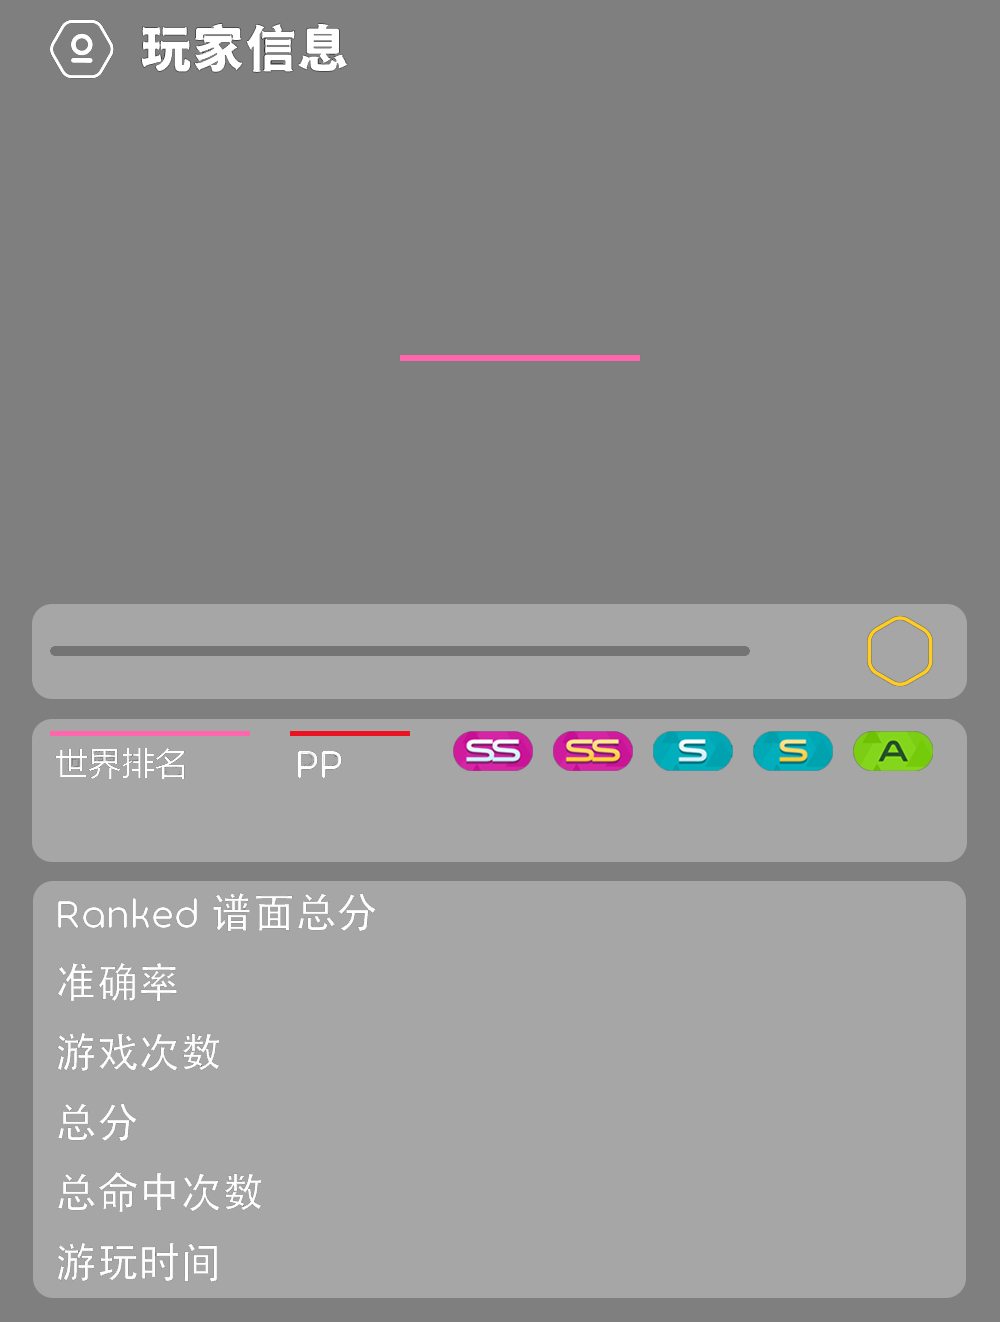
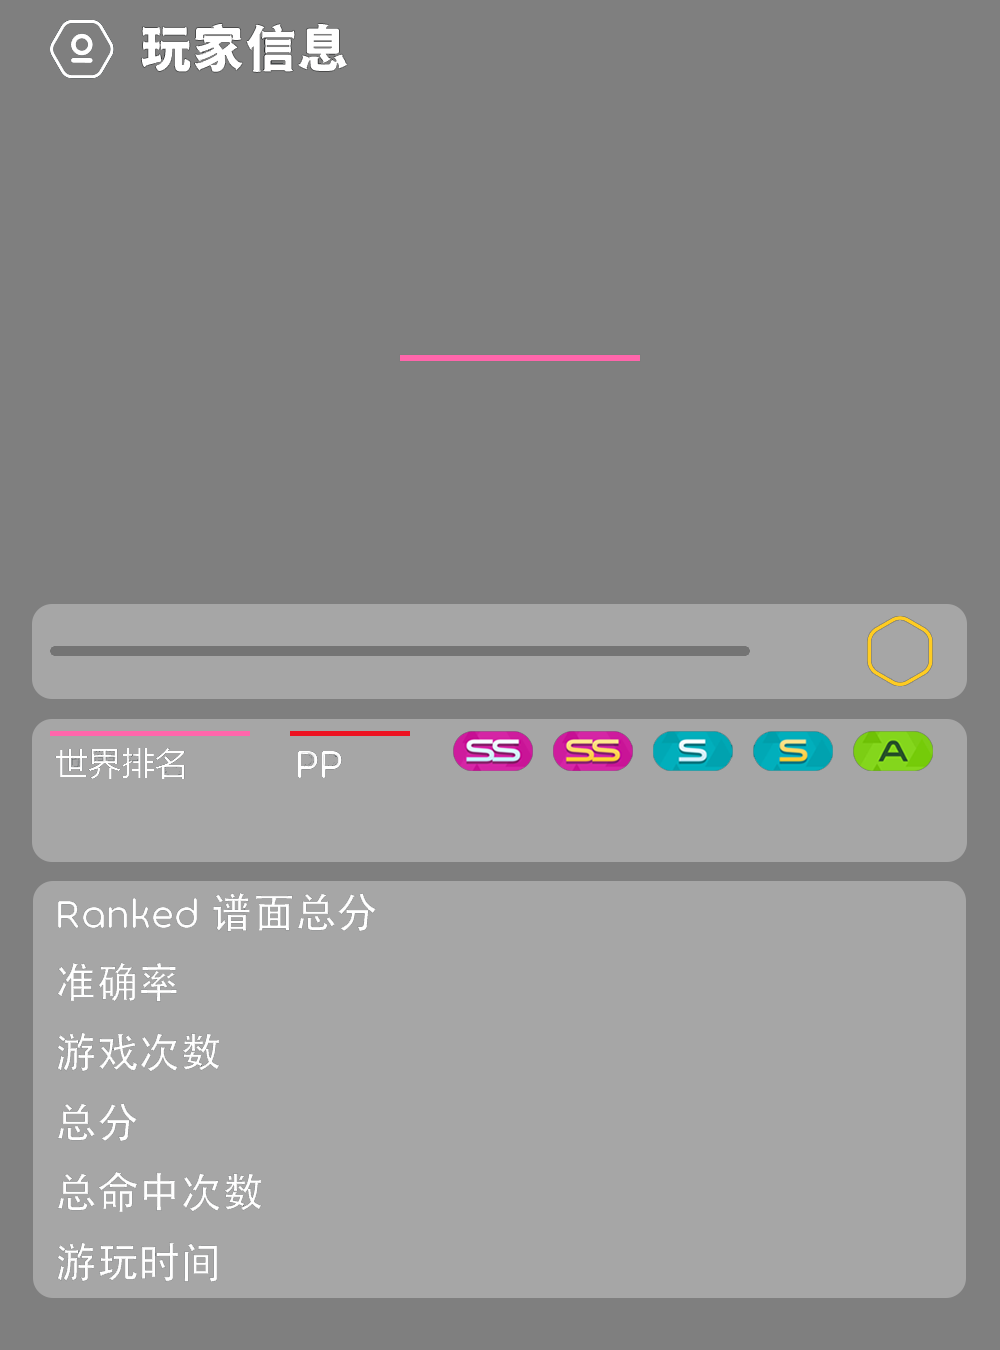
:sparkles: `info` 底部新增对比时间 (#32)
* 更人性化的bp指令

* mybad

* 扩展 `info` 图片到1000*1350

* `info` 新增底部对比时间

* 这样应该没问题了

diff --git a/nonebot_plugin_osubot/draw/info.py b/nonebot_plugin_osubot/draw/info.py
@@ -150,6 +150,17 @@ async def draw_info(uid: Union[int, str], mode: str, day: int) -> Union[str, Mes
     d_time = datetime(1, 1, 1) + sec
     t_time = "%dd %dh %dm %ds" % (sec.days, d_time.hour, d_time.minute, d_time.second)
     draw.text((935, 1245), t_time, font=Torus_Regular_40, anchor='rt')
+    # 底部时间对比
+    today = date.today() - user.date
+    time = today.days
+    if time >= 2:
+        current_time = datetime.now().strftime('%Y/%m/%d %H:%M:%S')
+        draw.text((260, 1305), current_time, font=Torus_Regular_25, anchor='la')
+        text = f'| 数据对比于 {time} 天前'
+        draw.text((515, 1305), text, font=Torus_Regular_25, anchor='la')
+    else:
+        current_time = datetime.now().strftime('%Y/%m/%d %H:%M:%S')
+        draw.text((380, 1305), current_time, font=Torus_Regular_25, anchor='la')
     # 头像
     gif_frames = []
     user_icon = await open_user_icon(info)
